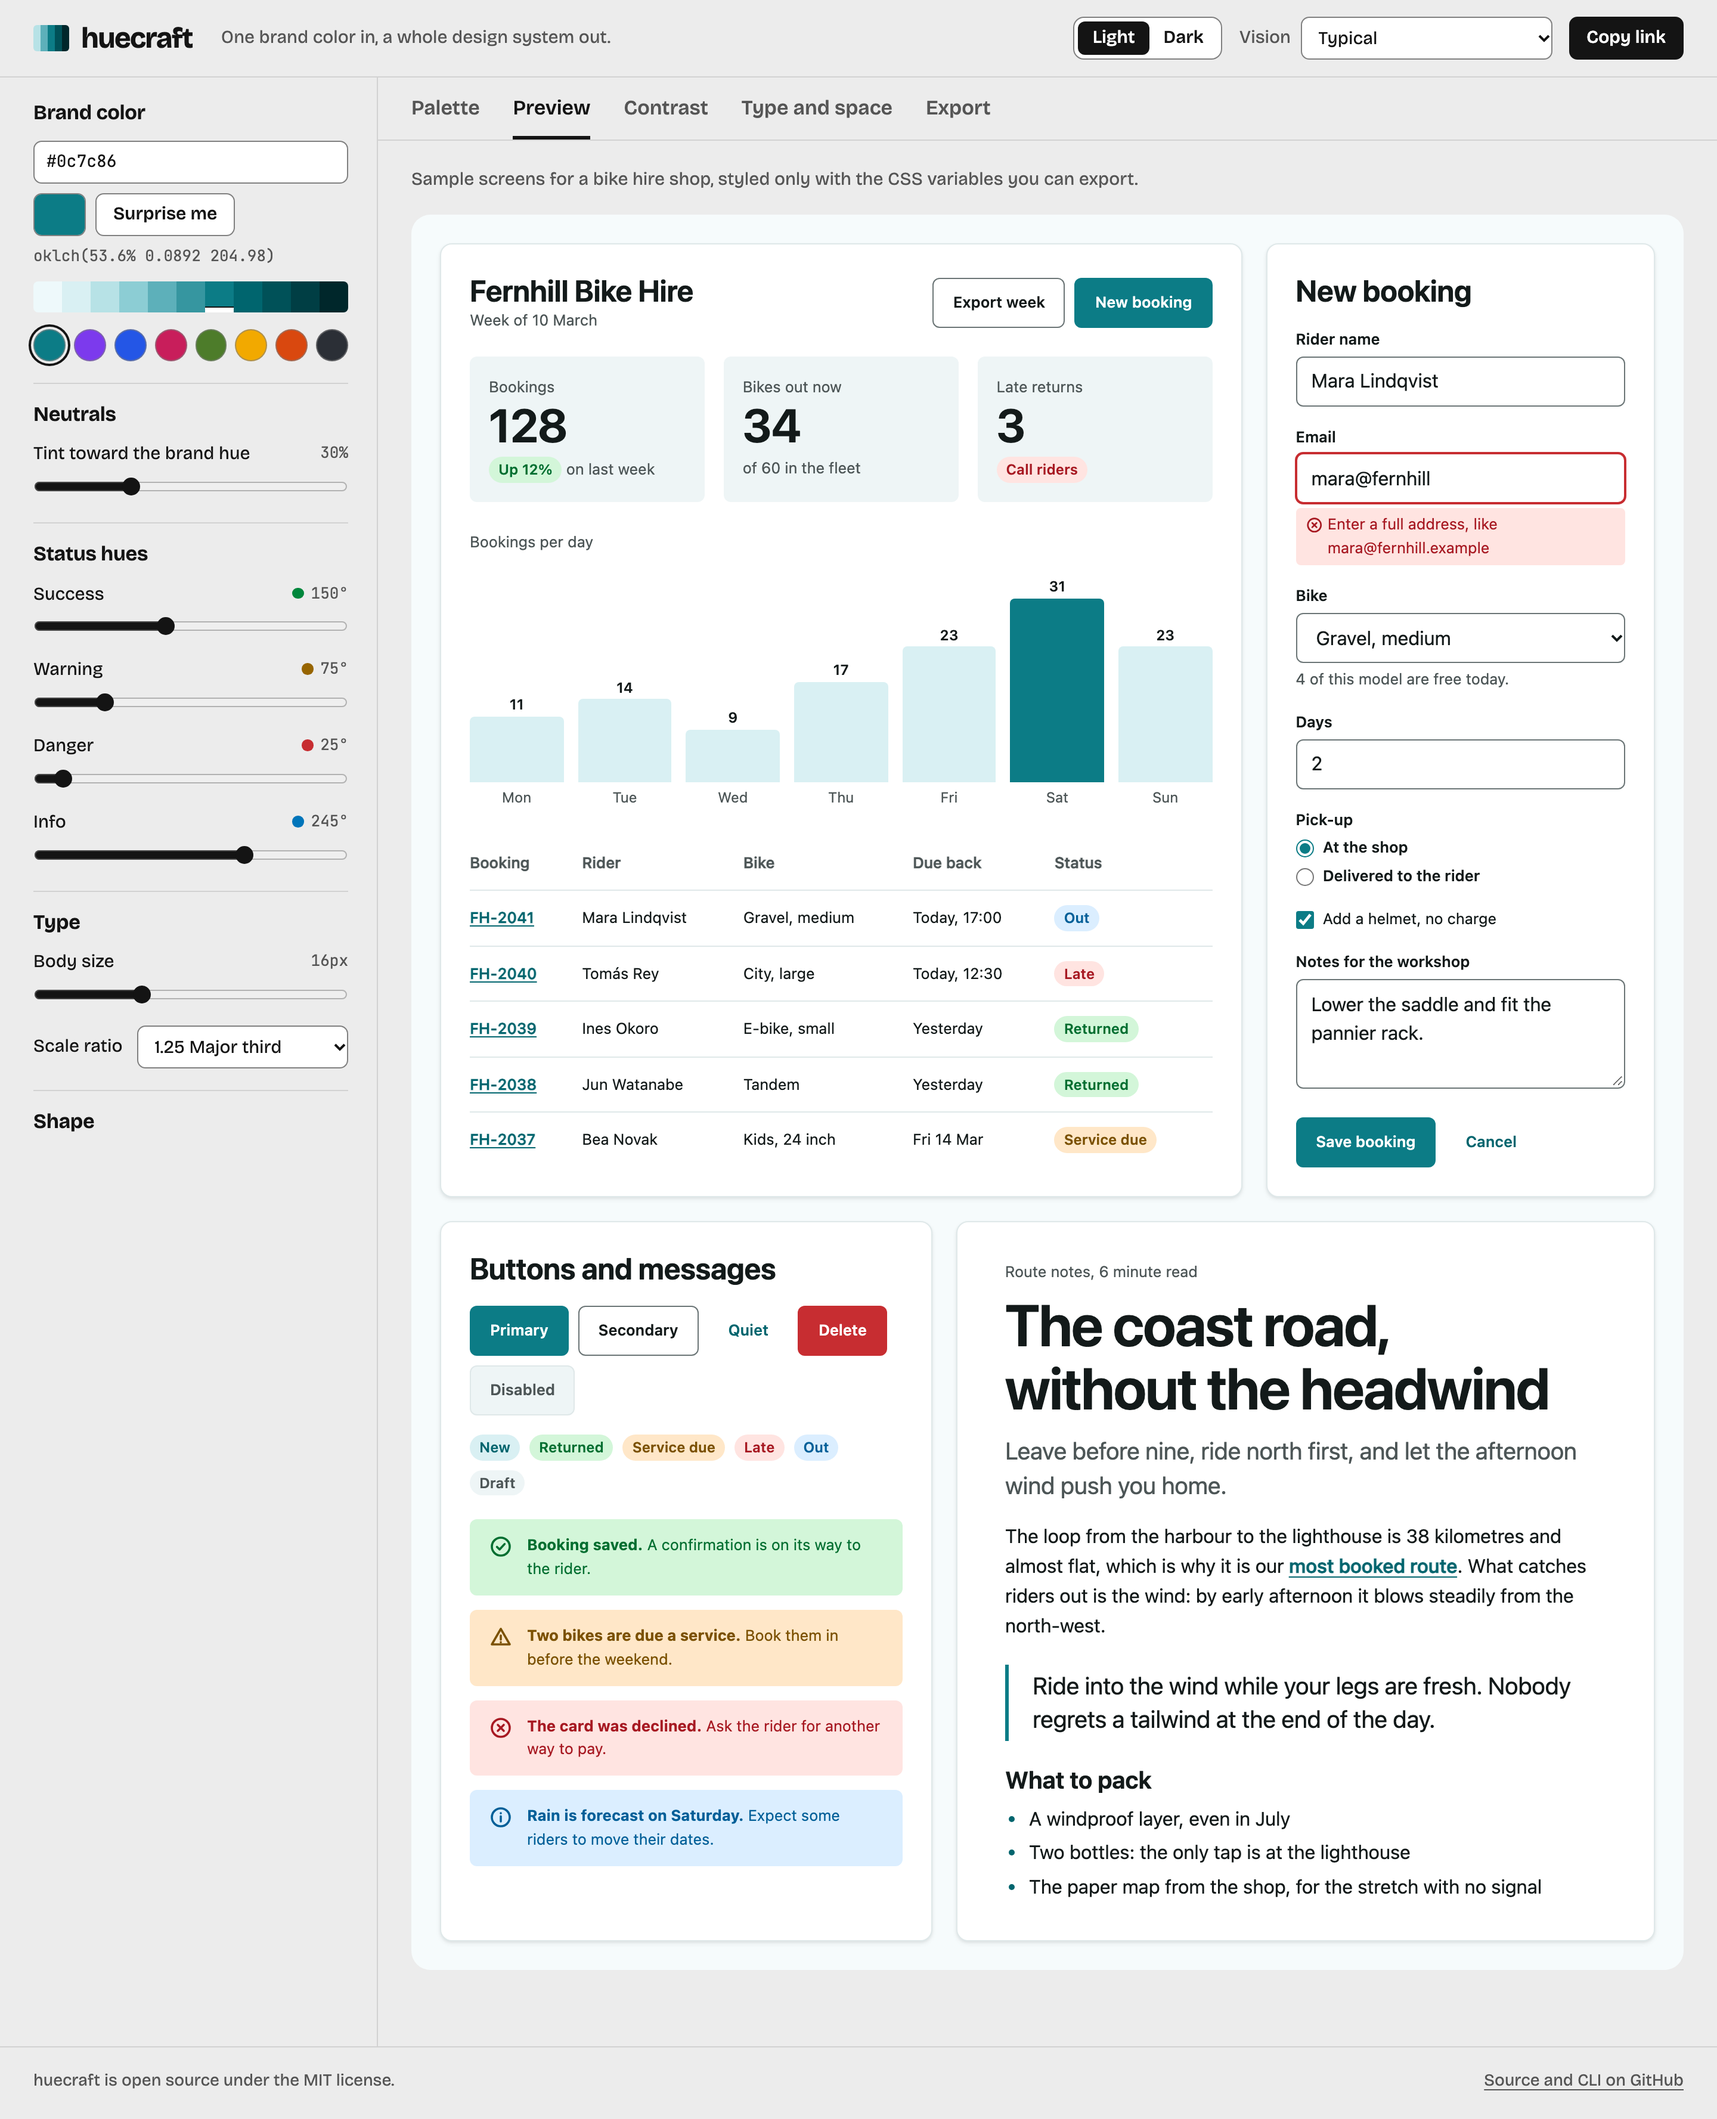
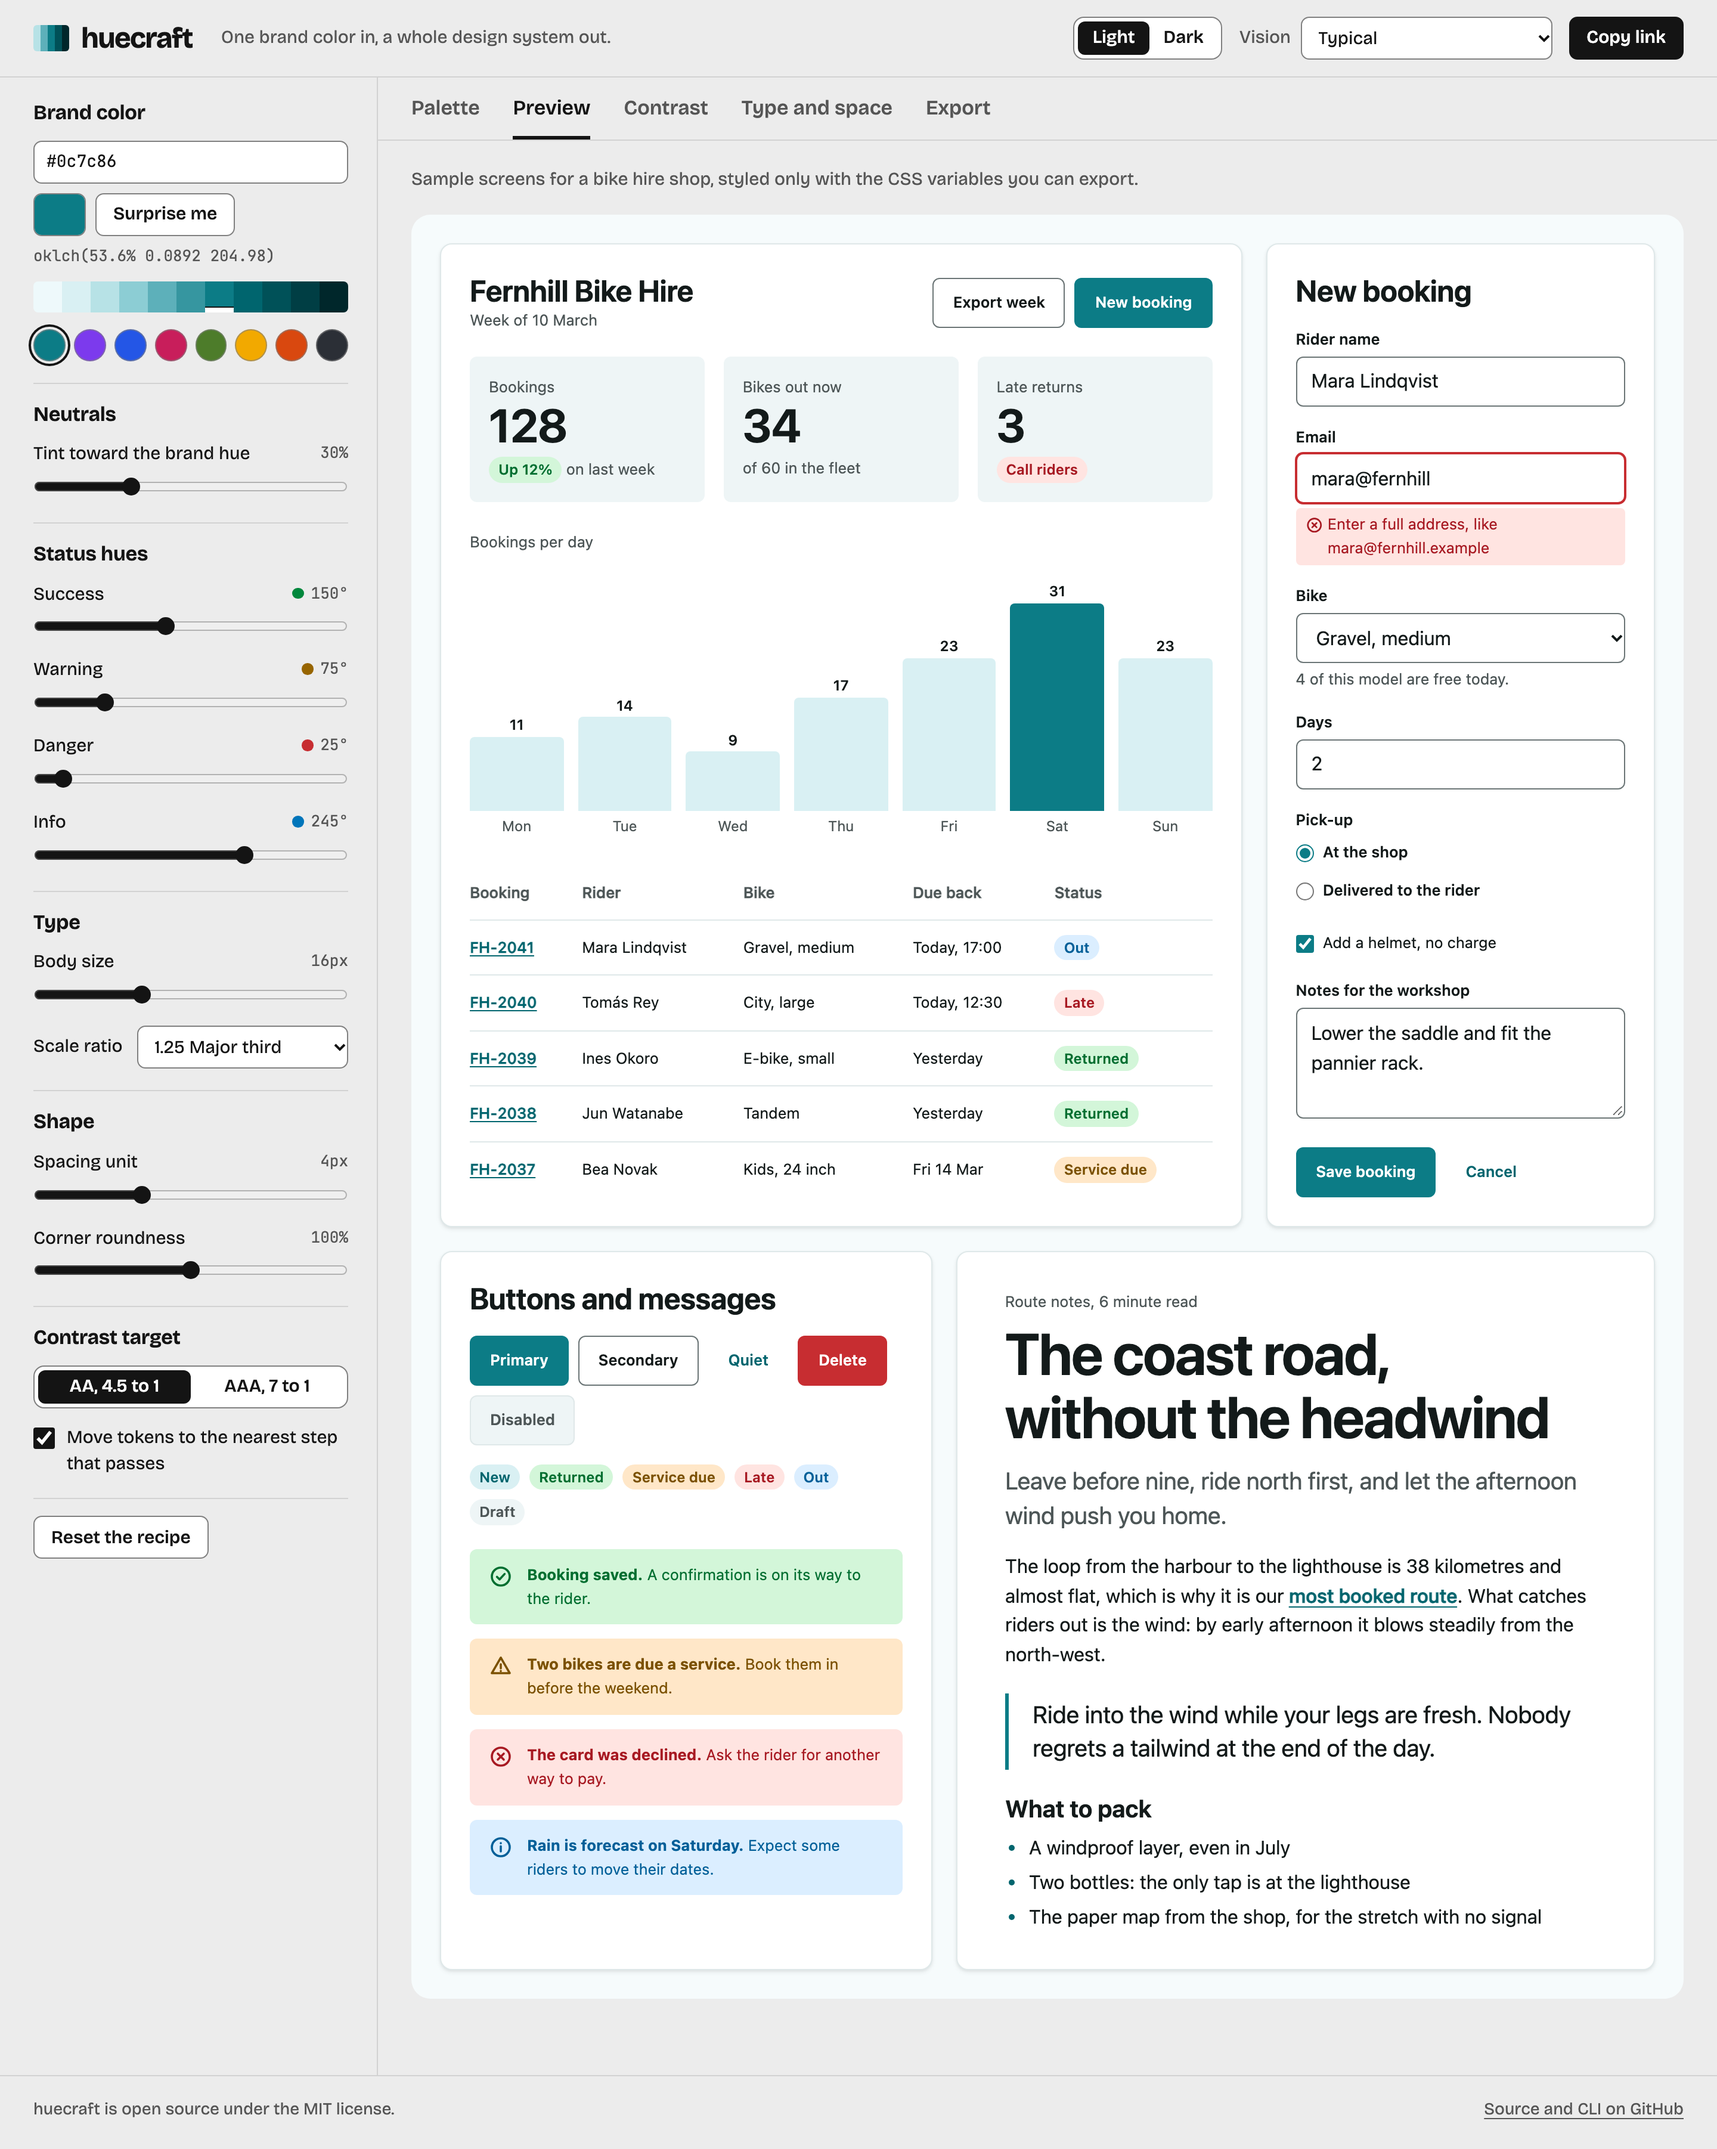
Capture full-page screenshots with the whole sidebar; refresh them; record the design pass

diff --git a/CHANGELOG.md b/CHANGELOG.md
@@ -5,6 +5,24 @@ The format follows [Keep a Changelog](https://keepachangelog.com/en/1.1.0/).
 
 ## [Unreleased]
 
+### Design pass (round 10)
+
+Looked at every tab at 1440px and 390px in both themes, the bad-color state and keyboard focus, and ran Lighthouse
+12.6.1 (Playwright's Chromium, production build on `localhost`) for the first time.
+
+- **Fixed: the preview's pick-up radios were 15px targets 24px apart**, which fails WCAG 2.2 target size (2.5.8).
+  Choice rows are now 1.75rem tall. axe's `target-size` rule is off by default, so `npm run e2e` now turns it on;
+  with the fix reverted that check fails.
+- **Changed: the type specimen sets body sizes (base, sm, xs) at body weight** instead of heading weight.
+- **Fixed: the full-page README screenshots cut the sidebar off at "Shape"** (a 100vh sticky sidebar in a full-page
+  capture). `e2e --shots` now grows the window to the page height first; preview screenshots refreshed.
+- Lighthouse, default mobile profile (simulated slow 4G, 4x CPU), `/`: performance 98, accessibility 100, best
+  practices 100, SEO 91; FCP and LCP 1.8 s, TBT 0, CLS 0. Desktop profile, `?tab=preview&th=dark`, before the radio
+  fix: 100 / 97 / 100 / 91, FCP and LCP 0.4 s. The SEO point lost is `robots.txt`, which the local preview server
+  answers with the page; on Pages the site lives under `/huecraft/`, so no robots.txt is added.
+- Still open, not code bugs: Pages workflow never run and no homepage (owner enables Pages); Figma payload never
+  imported; only Chromium; no social image (needs a public URL first).
+
 ### First-run review
 
 Cloned the repo fresh and followed the README literally: `npm ci`, `npm run dev` on 4140, both CLI lines (the
